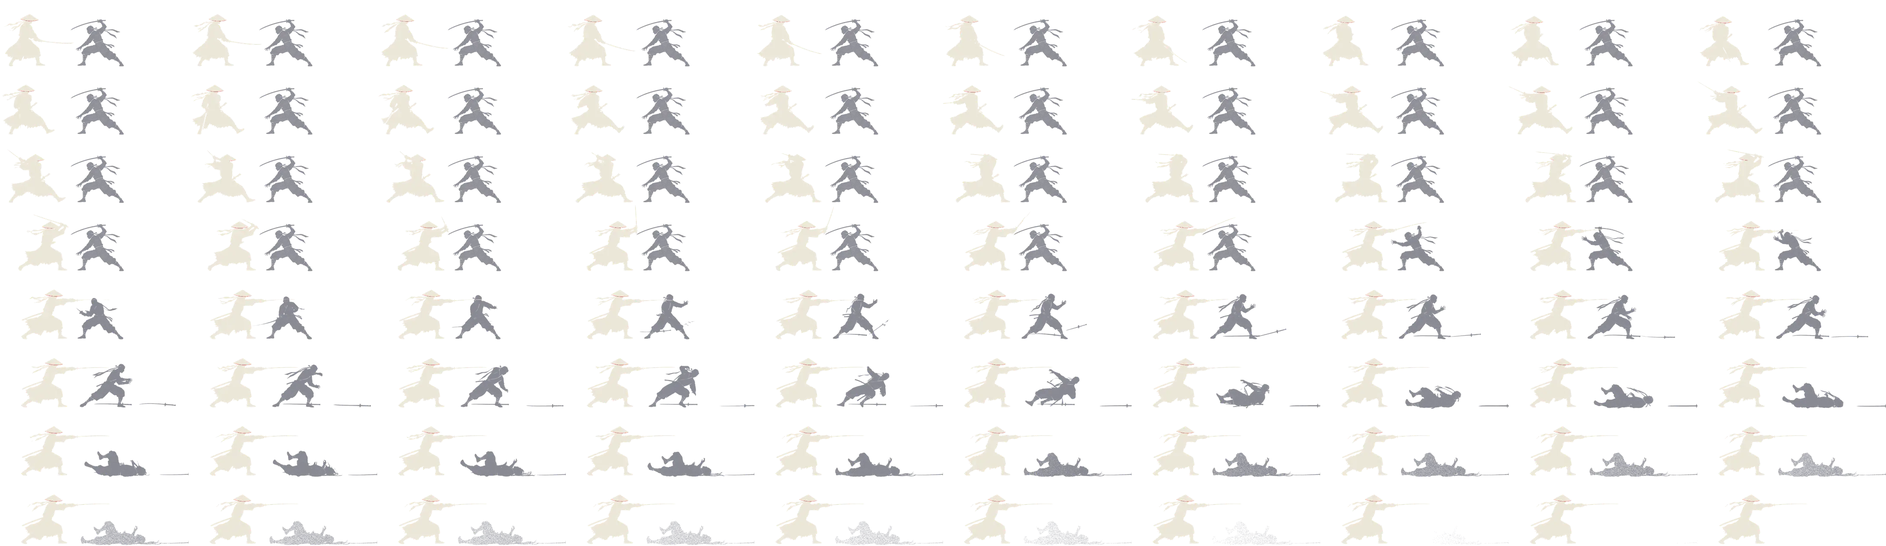
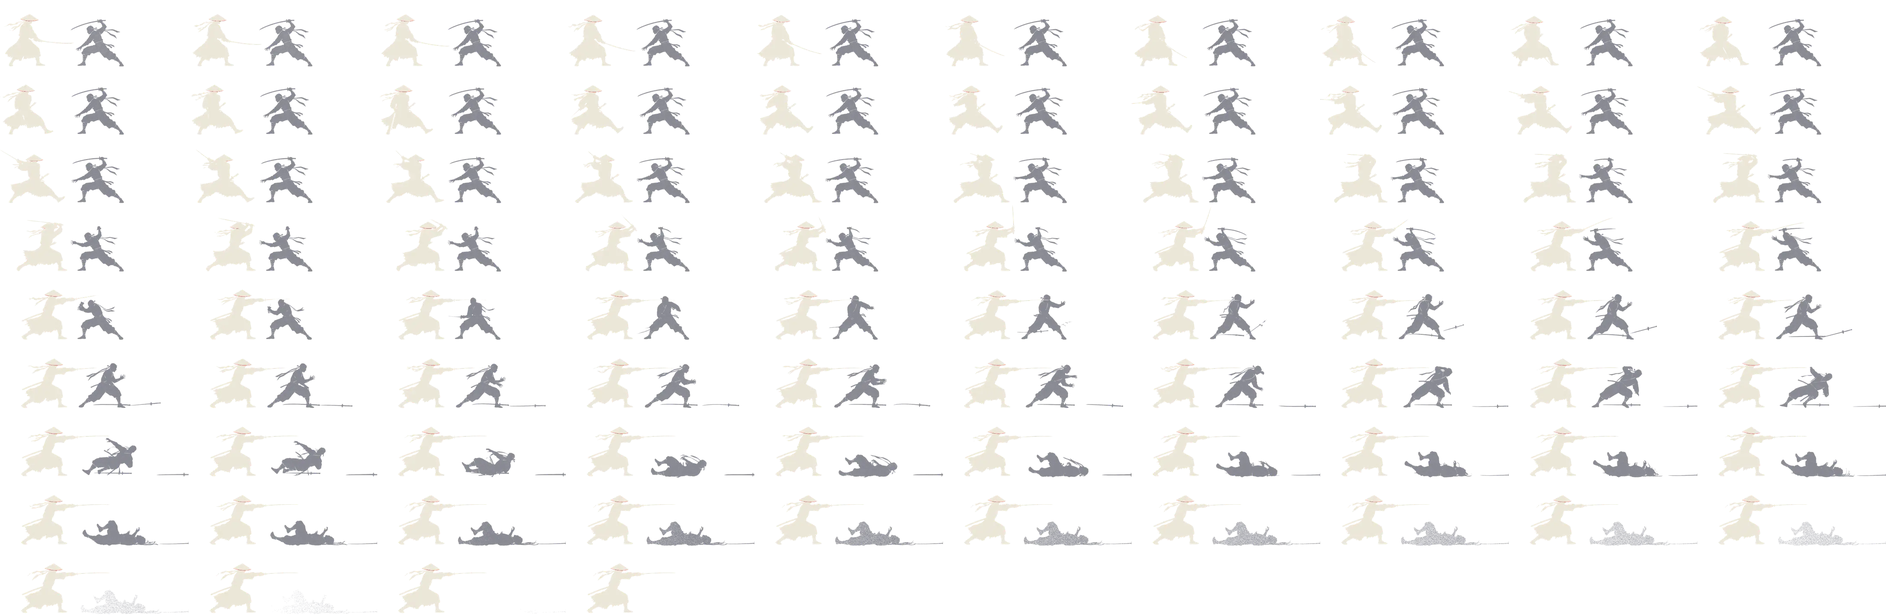
Ejecución 2,1 s con el rival vivo; comparaciones en Ver animaciones por tarjeta; Mi código más picante (numerales, sello, marca de agua)
Claude-Session: https://claude.ai/code/session_01BXqy3F16TAremLTdTkdmfS

diff --git a/src/ui/estilos.css b/src/ui/estilos.css
@@ -1,4 +1,4 @@
-/* Kanji a pincel (Yuji Syuku, licencia OFL), solo con los kanji que usa la app: ~12 KB, sin conexión. */
+/* Kanji a pincel (Yuji Syuku, licencia OFL), solo con los kanji que usa la app (más los numerales 一〜十 de Mi código): ~17 KB, sin conexión. */
 @font-face { font-family: 'Pincel'; src: url('../assets/fuentes/pincel.woff2') format('woff2'); font-weight: 400; font-style: normal; font-display: block; }
 /* Sistema de progreso: tema oscuro sobrio, un color de acento, letra grande. */
 
@@ -1441,18 +1441,20 @@ body::before { content: ''; position: fixed; inset: 0; z-index: 1000; pointer-ev
 .codigo-kanji.chico { font-size: 34px; }
 .codigo { padding: calc(var(--av-arriba, 60px) + 12px) 14px 32px; display: flex; flex-direction: column; gap: 14px; }
 .codigo-volver { align-self: flex-start; color: inherit; text-decoration: none; font-size: 14px; opacity: .85; padding: 6px 10px; border-radius: 999px; background: rgba(var(--papel-rgb), 0.08); border: 1px solid rgba(var(--papel-rgb), 0.18); -webkit-backdrop-filter: blur(8px); backdrop-filter: blur(8px); }
-.codigo-cabeza { display: flex; gap: 14px; align-items: center; padding: 14px 16px; border-radius: 16px; background: rgba(18, 17, 16, var(--vidrio, .55)); -webkit-backdrop-filter: blur(var(--vidrio-blur, 16px)); backdrop-filter: blur(var(--vidrio-blur, 16px)); border: 1px solid var(--vidrio-borde, rgba(238, 236, 231, .16)); }
+.codigo-cabeza { position: relative; overflow: hidden; display: flex; gap: 14px; align-items: center; padding: 16px 16px 20px; border-radius: 16px; background: rgba(18, 17, 16, var(--vidrio, .55)); -webkit-backdrop-filter: blur(var(--vidrio-blur, 16px)); backdrop-filter: blur(var(--vidrio-blur, 16px)); border: 1px solid var(--vidrio-borde, rgba(238, 236, 231, .16)); }
 .codigo-cabeza h1 { margin: 0 0 4px; font-size: 1.6rem; letter-spacing: .02em; }
 .codigo-grupo { display: flex; flex-direction: column; gap: 8px; }
-.codigo-grupo-titulo { display: flex; align-items: center; gap: 8px; font-size: 12px; letter-spacing: .16em; text-transform: uppercase; text-shadow: 0 1px 3px rgba(0, 0, 0, .6); }
-.codigo-grupo-kanji { font-family: 'Pincel', 'Noto Serif JP', serif; font-size: 18px; letter-spacing: 0; color: #e8a0ab; }
-.codigo-grupo-titulo::after { content: ''; flex: 1; height: 2px; border-radius: 2px; background: linear-gradient(90deg, rgba(200, 16, 46, .7), rgba(200, 16, 46, 0)); }
-.codigo-regla { position: relative; display: flex; align-items: center; gap: 12px; width: 100%; text-align: left; padding: 14px 16px 14px 12px; border-radius: 14px; color: inherit; font: inherit; cursor: pointer; background: rgba(18, 17, 16, var(--vidrio, .55)); -webkit-backdrop-filter: blur(var(--vidrio-blur, 16px)); backdrop-filter: blur(var(--vidrio-blur, 16px)); border: 1px solid var(--vidrio-borde, rgba(238, 236, 231, .16)); }
-.codigo-regla:active { transform: scale(.99); }
-.codigo-pincel { flex: none; width: 10px; align-self: stretch; height: auto; min-height: 30px; }
-.codigo-pincel path { fill: none; stroke: #c8102e; stroke-width: 4; stroke-linecap: round; opacity: .85; }
-.codigo-texto { font-family: var(--fuente); font-size: 1.05rem; font-weight: 650; line-height: 1.35; }
-.codigo-nueva { border-color: rgba(200, 16, 46, .7) !important; box-shadow: 0 0 12px rgba(200, 16, 46, .2); }
+.codigo-grupo-titulo { display: flex; align-items: center; gap: 10px; font-size: 12px; letter-spacing: .2em; text-transform: uppercase; text-shadow: 0 1px 3px rgba(0, 0, 0, .6); }
+.codigo-grupo-kanji { font-family: 'Pincel', 'Noto Serif JP', serif; font-size: 30px; line-height: 1; letter-spacing: 0; color: #e8323c; text-shadow: 0 0 1px currentColor, 0 0 10px rgba(232, 50, 60, .55), 0 1px 3px rgba(0, 0, 0, .8); }
+.codigo-grupo-nombre { color: rgba(var(--papel-rgb), .85); }
+.codigo-grupo-trazo { flex: 1; height: 8px; overflow: visible; opacity: .8; }
+.codigo-grupo-trazo path { fill: none; stroke: #c8102e; stroke-width: 2.6; stroke-linecap: round; }
+.codigo-regla { position: relative; overflow: hidden; display: flex; align-items: center; gap: 12px; width: 100%; text-align: left; padding: 16px 16px 18px 14px; border-radius: 4px 14px 4px 14px; color: inherit; font: inherit; cursor: pointer; background: rgba(18, 17, 16, var(--vidrio, .55)); -webkit-backdrop-filter: blur(var(--vidrio-blur, 16px)); backdrop-filter: blur(var(--vidrio-blur, 16px)); border: 1px solid var(--vidrio-borde, rgba(238, 236, 231, .16)); }
+.codigo-regla::before { content: ''; position: absolute; left: 0; top: 0; bottom: 0; width: 4px; background: linear-gradient(180deg, #e8323c, #8a0b1f); box-shadow: 0 0 10px rgba(232, 50, 60, .55); }
+.codigo-numero { flex: none; width: 40px; font-family: 'Pincel', 'Noto Serif JP', serif; font-size: 34px; line-height: 1; text-align: center; color: #e8323c; text-shadow: 0 0 1px currentColor, 0 0 12px rgba(232, 50, 60, .6), 0 2px 4px rgba(0, 0, 0, .8); }
+.codigo-marca { position: absolute; right: -6px; top: -14px; font-family: 'Pincel', 'Noto Serif JP', serif; font-size: 92px; line-height: 1; color: rgba(var(--papel-rgb), .09); transform: rotate(-8deg); pointer-events: none; text-shadow: none !important; }
+.codigo-texto { position: relative; font-family: var(--fuente); font-size: 1.1rem; font-weight: 700; line-height: 1.32; letter-spacing: .005em; }
+.codigo-nueva { border-color: rgba(232, 50, 60, .85) !important; background: linear-gradient(180deg, rgba(200, 16, 46, .28), rgba(200, 16, 46, .12)) !important; box-shadow: 0 0 18px rgba(200, 16, 46, .3), inset 0 1px 0 rgba(255, 255, 255, .08); font-weight: 700; }
 .progreso-tinta[data-vidrio="claro"] .codigo-cabeza, .progreso-tinta[data-vidrio="claro"] .codigo-regla { background: rgba(243, 239, 230, var(--vidrio, .6)); }
 .progreso-tinta[data-vidrio="claro"] .codigo-kanji { color: #121110; }
 
@@ -1493,9 +1495,11 @@ body::before { content: ''; position: fixed; inset: 0; z-index: 1000; pointer-ev
 .codigo-lista.entra .codigo-grupo { animation: codigo-formar 200ms ease-out both; }
 @keyframes codigo-disolver { to { opacity: 0; filter: blur(5px) contrast(1.4); transform: scale(.985) translateY(3px); } }
 @keyframes codigo-formar { from { opacity: 0; filter: blur(5px) contrast(1.4); transform: scale(.985) translateY(-3px); } }
-.codigo-regla { padding-right: 38px; }
-.codigo-otra { position: absolute; top: 8px; right: 12px; font-family: 'Pincel', 'Noto Serif JP', serif; font-size: 17px; line-height: 1; color: rgba(var(--papel-rgb), .5); }
-.progreso-tinta[data-vidrio="claro"] .codigo-otra { color: rgba(18, 17, 16, .45); }
+.codigo-regla { padding-right: 16px; }
+.codigo-otra { position: absolute; bottom: 5px; right: 12px; font-family: 'Pincel', 'Noto Serif JP', serif; font-size: 11px; letter-spacing: .08em; text-transform: uppercase; line-height: 1; color: rgba(var(--papel-rgb), .55); }
+.progreso-tinta[data-vidrio="claro"] .codigo-otra { color: rgba(18, 17, 16, .5); }
+.progreso-tinta[data-vidrio="claro"] .codigo-marca { color: rgba(18, 17, 16, .08); }
+.progreso-tinta[data-vidrio="claro"] .codigo-grupo-nombre { color: rgba(18, 17, 16, .8); }
 .codigo-etiquetas { display: grid; grid-template-columns: repeat(4, 1fr); gap: 6px; }
 .codigo-etiquetas button { display: flex; flex-direction: column; align-items: center; gap: 2px; padding: 8px 4px; border-radius: 12px; border: 1px solid var(--borde); background: var(--fondo); color: inherit; font: inherit; font-size: 12px; cursor: pointer; }
 .codigo-etiquetas button.activa { border-color: #c8102e; box-shadow: inset 0 0 0 1px #c8102e; }
@@ -1794,3 +1798,14 @@ body:has(.progreso-tinta:not([data-vidrio="claro"])) .av-fondo::before { content
 .sh-capa.logro.luma .sh-sub-texto { animation-delay: calc(var(--dur) * .64); }
 .sh-capa.logro.luma .sh-escenario { animation-name: sh-sacudida-logro-v; }
 @keyframes sh-sacudida-logro-v { 0%, 9% { transform: none } 10% { transform: translate(-2px, 1px) } 11.5% { transform: translate(2px, -1px) } 13%, 54% { transform: none } 55% { transform: translate(-3px, 2px) } 56.5% { transform: translate(3px, -2px) } 58% { transform: translate(-2px, -1px) } 59.5%, 100% { transform: none } }
+
+/* Mi código, más picante: sello con la cuenta de reglas en la cabecera, trazo de pincel abajo, kanji de marca de agua en cada regla */
+.codigo-kanji { font-size: 76px; text-shadow: 0 0 1px currentColor, 3px 3px 0 rgba(200, 16, 46, 0.7), 0 0 18px rgba(200, 16, 46, .35); }
+.codigo-cabeza-texto { flex: 1; min-width: 0; }
+.codigo-cabeza-sello { flex: none; align-self: flex-start; display: grid; place-items: center; gap: 0; width: 46px; height: 50px; margin-top: -2px; border-radius: 4px 6px 4px 7px; background: #c8102e; color: #fff3ee; transform: rotate(-7deg); box-shadow: inset 0 0 0 2px rgba(255, 240, 235, .35), 0 4px 16px rgba(200, 16, 46, .45); text-shadow: none !important; }
+.codigo-cabeza-sello span { font-family: 'Pincel', 'Noto Serif JP', serif; font-size: 24px; line-height: 1; }
+.codigo-cabeza-sello b { font-size: 12px; line-height: 1; margin-top: -2px; }
+.codigo-cabeza-trazo { position: absolute; left: 6%; right: 6%; bottom: 6px; width: 88%; height: 8px; overflow: visible; opacity: .9; }
+.codigo-cabeza-trazo path { fill: none; stroke: #c8102e; stroke-width: 3; stroke-linecap: round; }
+.codigo-regla:active { transform: scale(.985); }
+.codigo-regla:active .codigo-numero { text-shadow: 0 0 1px currentColor, 0 0 18px rgba(232, 50, 60, .95); }

diff --git a/src/ui/paginas/VerAnimaciones.tsx b/src/ui/paginas/VerAnimaciones.tsx
@@ -27,9 +27,20 @@ export function VerAnimaciones() {
   const a = datos.datos
   if (!a) return <p className="vacio">Cargando…</p>
   const ver = (x: Animacion) => animar(x, { forzar: true })
-  /** Cámara lenta (x4) para una sola animación; después vuelve a la velocidad normal. */
-  const lenta = (x: Animacion, ms: number) => { configurarAnimaciones({ lento: 4 }); ver(x); window.setTimeout(() => configurarAnimaciones({ lento: 1 }), ms * 4 + 600) }
+  /** Cámara lenta (x4) solo para esa animación; la casilla general no cambia. */
+  const lenta = (x: Animacion) => ver({ ...x, lento: 4 })
   const guardar = (c: Partial<Ajustes>, msg: string) => mutar(() => guardarAjustes(c)).then(() => avisar(msg, { tipo: 'ok' }))
+  const EJ: Animacion = { tipo: 'ejecucion', pilar: 'entrenamiento' }
+  const CAR: Animacion = { tipo: 'postura', modo: '321' }
+  const LOG: Animacion = { tipo: 'logro', clase: 'nivel', texto: 'Nivel 5', sub: `${KANJI.nivel.k} · ascender` }
+  const PARRY: Animacion = { tipo: 'parry' }
+  /** Botones «cámara lenta» y «anterior (muñeco)» de una animación, para compararla con la versión vieja. */
+  const comparar = (x: Animacion, k: string, nombre: string) => (
+    <div className="anim-grilla anim-comparar">
+      <button className="boton" onClick={() => lenta(x)}><span className="k">{k}</span><span className="chico">{nombre} · cámara lenta</span></button>
+      <button className="boton" onClick={() => ver({ ...x, vieja: true })}><span className="k">{k}</span><span className="chico">{nombre} anterior (muñeco)</span></button>
+    </div>
+  )
   return (
     <>
       <Atras />
@@ -45,39 +56,40 @@ export function VerAnimaciones() {
             </button>
           ))}
         </div>
-        <div className="anim-grilla" style={{ marginTop: 8 }}>
-          <button className="boton" onClick={() => { configurarAnimaciones({ lento: 4 }); ver({ tipo: 'ejecucion', pilar: 'entrenamiento' }); window.setTimeout(() => configurarAnimaciones({ lento: 1 }), 8600) }}><span className="k">斬</span><span className="chico">Ejecución (Luma) · cámara lenta</span></button>
-          <button className="boton" onClick={() => ver({ tipo: 'ejecucion', pilar: 'entrenamiento', vieja: true })}><span className="k">斬</span><span className="chico">Ejecución anterior (muñeco)</span></button>
-        </div>
+        {comparar(EJ, '斬', 'Ejecución')}
         <p className="ayuda">El ronin corta y el rival cae (videos de Luma). La anterior, con el muñeco, queda guardada acá.</p>
       </Tarjeta>
 
-      <Tarjeta titulo="Series y concentración">
+      <Tarjeta titulo="Caramelo de monje">
         <div className="anim-grilla">
-          <button className="boton" onClick={() => ver({ tipo: 'parry' })}><span className="k">弾</span><span className="chico">Parry (sumar serie)</span></button>
-          <button className="boton" onClick={() => ver({ tipo: 'parry', vieja: true })}><span className="k">弾</span><span className="chico">Parry anterior (muñeco)</span></button>
-          <button className="boton" onClick={() => { for (let i = 0; i < 3; i++) window.setTimeout(() => ver({ tipo: 'parry' }), i * 280) }}><span className="k">弾弾</span><span className="chico">Tres series seguidas</span></button>
-          <button className="boton" onClick={() => ver({ tipo: 'postura', modo: '321' })}><span className="k">{KANJI['321'].k}</span><span className="chico">3-2-1</span></button>
+          <button className="boton" onClick={() => ver(CAR)}><span className="k">{KANJI['321'].k}</span><span className="chico">3-2-1</span></button>
           <button className="boton" onClick={() => ver({ tipo: 'postura', modo: 'siguiente' })}><span className="k">{KANJI.siguiente.k}</span><span className="chico">Siguiente acción</span></button>
-          <button className="boton" onClick={() => lenta({ tipo: 'postura', modo: '321' }, 1400)}><span className="k">{KANJI['321'].k}</span><span className="chico">Caramelo (Luma) · cámara lenta</span></button>
-          <button className="boton" onClick={() => ver({ tipo: 'postura', modo: '321', vieja: true })}><span className="k">{KANJI['321'].k}</span><span className="chico">Caramelo anterior (muñeco)</span></button>
         </div>
+        {comparar(CAR, KANJI['321'].k, 'Caramelo')}
+        <p className="ayuda">Se arrodilla, caramelo en la mano y aura al juntar las manos (video de Luma).</p>
+      </Tarjeta>
+
+      <Tarjeta titulo="Series · parry">
+        <div className="anim-grilla">
+          <button className="boton" onClick={() => ver(PARRY)}><span className="k">弾</span><span className="chico">Parry (sumar serie)</span></button>
+          <button className="boton" onClick={() => { for (let i = 0; i < 3; i++) window.setTimeout(() => ver(PARRY), i * 280) }}><span className="k">弾弾</span><span className="chico">Tres series seguidas</span></button>
+        </div>
+        {comparar(PARRY, '弾', 'Parry')}
+      </Tarjeta>
+
+      <Tarjeta titulo="Logros grandes">
+        <div className="anim-grilla">
+          <button className="boton" onClick={() => ver(LOG)}><span className="k">{KANJI.nivel.k}</span><span className="chico">Subir de nivel</span></button>
+          <button className="boton" onClick={() => ver({ tipo: 'logro', clase: 'racha', texto: '7 días seguidos', sub: `${KANJI.racha.k} · racha` })}><span className="k">{KANJI.racha.k}</span><span className="chico">Racha de 7 días</span></button>
+          <button className="boton" onClick={() => ver({ tipo: 'logro', clase: 'fase', texto: 'Fase 2', sub: `${KANJI.fase.k} · nueva etapa` })}><span className="k">{KANJI.fase.k}</span><span className="chico">Cambio de fase</span></button>
+        </div>
+        {comparar(LOG, KANJI.nivel.k, 'Logro')}
+        <p className="ayuda">El ronin corta, el kasa vuela y alza la katana (video de Luma). El anterior, con el muñeco, queda guardado acá.</p>
       </Tarjeta>
 
       <Tarjeta titulo="El shinobi, en reposo">
         <div className="sh-reposo-marco"><MuniecoVivo /></div>
         <p className="ayuda">Nunca queda quieto: respira, el kasa se mece y la bufanda y el abrigo van con el viento.</p>
-      </Tarjeta>
-
-      <Tarjeta titulo="Logros grandes">
-        <div className="anim-grilla">
-          <button className="boton" onClick={() => ver({ tipo: 'logro', clase: 'nivel', texto: 'Nivel 5', sub: `${KANJI.nivel.k} · ascender` })}><span className="k">{KANJI.nivel.k}</span><span className="chico">Subir de nivel</span></button>
-          <button className="boton" onClick={() => ver({ tipo: 'logro', clase: 'racha', texto: '7 días seguidos', sub: `${KANJI.racha.k} · racha` })}><span className="k">{KANJI.racha.k}</span><span className="chico">Racha de 7 días</span></button>
-          <button className="boton" onClick={() => ver({ tipo: 'logro', clase: 'fase', texto: 'Fase 2', sub: `${KANJI.fase.k} · nueva etapa` })}><span className="k">{KANJI.fase.k}</span><span className="chico">Cambio de fase</span></button>
-          <button className="boton" onClick={() => lenta({ tipo: 'logro', clase: 'nivel', texto: 'Nivel 5', sub: `${KANJI.nivel.k} · ascender` }, 2600)}><span className="k">{KANJI.nivel.k}</span><span className="chico">Logro (Luma) · cámara lenta</span></button>
-          <button className="boton" onClick={() => ver({ tipo: 'logro', clase: 'nivel', texto: 'Nivel 5', sub: `${KANJI.nivel.k} · ascender`, vieja: true })}><span className="k">{KANJI.nivel.k}</span><span className="chico">Logro anterior (muñeco)</span></button>
-        </div>
-        <p className="ayuda">El ronin corta, el kasa vuela y alza la katana (video de Luma). El anterior, con el muñeco, queda guardado acá.</p>
       </Tarjeta>
 
       <Tarjeta titulo="Cuándo se muestran">

diff --git a/src/ui/paginas/MiCodigo.tsx b/src/ui/paginas/MiCodigo.tsx
@@ -23,6 +23,15 @@ function vistaGuardada(): VistaCodigo {
   }
 }
 
+const NUMERALES = ['一', '二', '三', '四', '五', '六', '七', '八', '九', '十']
+/** Número de la regla con numerales a pincel: 一, 二 … 十, 十一 … 二十. Más de 20 vuelve a los números comunes. */
+export function numeral(n: number): string {
+  if (n <= 10) return NUMERALES[n - 1]
+  if (n < 20) return `十${NUMERALES[n - 11]}`
+  if (n === 20) return '二十'
+  return String(n)
+}
+
 const areaDe = (r: ReglaCodigo) => GRUPOS_CODIGO.find((g) => g.id === r.grupo)!
 const momentoInfo = (r: ReglaCodigo) => MOMENTOS_CODIGO.find((m) => m.id === momentoDe(r))!
 
@@ -56,10 +65,12 @@ export function MiCodigo() {
       <Link to="/progreso" className="codigo-volver" onClick={() => { try { sessionStorage.removeItem('progreso-seccion') } catch { /* sin almacenamiento */ } }}>‹ Progreso</Link>
       <header className="codigo-cabeza">
         <span className="codigo-kanji" aria-hidden>掟</span>
-        <div>
+        <div className="codigo-cabeza-texto">
           <h1>Mi código</h1>
           <p className="av-nota">Okite: el código que un shinobi no rompe. No son tareas del día: es tu forma de vivir.</p>
         </div>
+        {reglas.length > 0 && <span className="codigo-cabeza-sello" aria-label={`${reglas.length} ${reglas.length === 1 ? 'regla jurada' : 'reglas juradas'}`}><span aria-hidden>誓</span><b>{reglas.length}</b></span>}
+        <svg className="codigo-cabeza-trazo" viewBox="0 0 300 10" preserveAspectRatio="none" aria-hidden><path d="M3,6 C50,2 110,9 170,5 C220,2 265,7 297,4" /></svg>
       </header>
 
       <div className="codigo-vistas" role="tablist" aria-label="Ordenar el código">
@@ -77,16 +88,15 @@ export function MiCodigo() {
           if (!lista.length) return null
           return (
             <section key={g.id} className="codigo-grupo" aria-label={g.nombre}>
-              <div className="codigo-grupo-titulo"><span className="codigo-grupo-kanji" aria-hidden>{g.kanji}</span>{g.nombre}</div>
+              <div className="codigo-grupo-titulo"><span className="codigo-grupo-kanji" aria-hidden>{g.kanji}</span><span className="codigo-grupo-nombre">{g.nombre}</span><svg className="codigo-grupo-trazo" viewBox="0 0 200 8" preserveAspectRatio="none" aria-hidden><path d="M2,5 C40,2 90,7 140,4 C170,2 190,5 198,4" /></svg></div>
               {lista.map((r, i) => {
                 const otra = vista === 'area' ? momentoInfo(r) : areaDe(r)
                 return (
-                  <button key={r.id} type="button" className="codigo-regla" onClick={() => setEditar(r)} aria-label={`${r.texto} (${otra.nombre}). Tocá para editar`}>
-                    <svg className="codigo-pincel" viewBox="0 0 12 100" preserveAspectRatio="none" aria-hidden>
-                      <path d={i % 2 ? 'M6,2 C3,30 8,60 5,98' : 'M5,2 C8,28 3,64 6,98'} />
-                    </svg>
+                  <button key={r.id} type="button" className="codigo-regla" onClick={() => setEditar(r)} aria-label={`Regla ${i + 1}: ${r.texto} (${otra.nombre}). Tocá para editar`}>
+                    <span className="codigo-marca" aria-hidden>{otra.kanji}</span>
+                    <span className="codigo-numero" aria-hidden>{numeral(i + 1)}</span>
                     <span className="codigo-texto">{r.texto}</span>
-                    <span className="codigo-otra" aria-hidden title={otra.nombre}>{otra.kanji}</span>
+                    <span className="codigo-otra" aria-hidden title={otra.nombre}>{otra.kanji} · {otra.nombre}</span>
                   </button>
                 )
               })}

diff --git a/src/ui/animaciones/motor.ts b/src/ui/animaciones/motor.ts
@@ -9,17 +9,18 @@ import { useSyncExternalStore } from 'react'
 export type PilarAnim = 'entrenamiento' | 'empresa' | 'manga' | 'acostarse'
 export type EstiloCorte = 'horizontal' | 'diagonal' | 'ascendente' | 'estocada' | 'vertical'
 
-export type Animacion =
+export type Animacion = (
   | { tipo: 'ejecucion'; pilar: string; estilo?: EstiloCorte; /** La versión anterior (muñeco SVG), guardada para volver. */ vieja?: boolean }
   | { tipo: 'parry'; nombre?: string; /** La versión anterior (muñeco SVG), guardada para volver. */ vieja?: boolean }
   | { tipo: 'postura'; modo: '321' | 'siguiente'; /** La versión anterior (muñeco SVG), guardada para volver. */ vieja?: boolean }
   | { tipo: 'logro'; clase: 'nivel' | 'racha' | 'fase' | 'record'; texto: string; sub?: string; /** La versión anterior (muñeco SVG), guardada para volver. */ vieja?: boolean }
+) & { /** Cámara lenta solo para esta animación (x4 en Ver animaciones); si no, vale la casilla general. */ lento?: number }
 
 export type ModoAnimaciones = 'todas' | 'logros' | 'ninguna'
 
 /** Duración máxima de cada animación (ms), según lo pedido. */
 export const DURACION: Record<Animacion['tipo'], number> = {
-  ejecucion: 2000, // ejecución hecha con los dos videos de Luma (ronin corta, rival cae): 80 cuadros a 40 fps
+  ejecucion: 2100, // ejecución hecha con los dos videos de Luma (ronin corta, rival cae): 84 cuadros a 40 fps
   parry: 1900, // parry hecho con el video de Luma (88 cuadros seguidos a ~46 fps: casi el doble de rápido que el video)
   postura: 1400, // caramelo hecho con el video de Luma (56 cuadros a 40 fps)
   logro: 2600, // logro hecho con el video de Luma: 2 s de movimiento + 0,6 s de pose de victoria con el sello
@@ -263,13 +264,18 @@ function tambor(ac: AudioContext, t: number) {
   o.stop(t + 0.5)
 }
 
+/** Cámara lenta que corresponde a una animación: la suya o la general. */
+export function lentoDe(a: Animacion): number {
+  return a.lento ?? config.lento
+}
+
 export function sonar(a: Animacion): void {
   const ac = audio()
   if (!ac) return
   const t = ac.currentTime + 0.01
-  const l = config.lento
+  const l = lentoDe(a)
   try {
-    if (a.tipo === 'ejecucion') corte(ac, t + 0.42 * l)
+    if (a.tipo === 'ejecucion') corte(ac, t + (a.vieja ? 0.42 : 0.95) * l)
     else if (a.tipo === 'parry') choque(ac, t + (a.vieja ? 0.12 : 0.67) * l)
     else if (a.tipo === 'postura') aura(ac, t + (a.vieja ? 0.5 : 0.72) * l, a.modo === 'siguiente')
     else {

diff --git a/src/ui/animaciones/CapaAnimacion.tsx b/src/ui/animaciones/CapaAnimacion.tsx
@@ -2,7 +2,7 @@ import { Suspense, lazy, useEffect } from 'react'
 import { obtenerAjustes } from '../../services/base'
 import { useDatos } from '../estado'
 import { cargarPoses } from './munieco'
-import { configurarAnimaciones, duracionDe, saltar, terminar, useAnimacionActual, useConfigAnimaciones } from './motor'
+import { configurarAnimaciones, duracionDe, lentoDe, saltar, terminar, useAnimacionActual, useConfigAnimaciones } from './motor'
 
 // La escena (SVG y poses) se carga recién la primera vez que hace falta: no suma al arranque.
 const Escena = lazy(() => import('./Escena').then((m) => ({ default: m.Escena })))
@@ -24,13 +24,13 @@ export function CapaAnimacion() {
   }, [])
   useEffect(() => {
     if (!a) return
-    const id = window.setTimeout(() => terminar(a.id), duracionDe(a) * config.lento + 250)
+    const id = window.setTimeout(() => terminar(a.id), duracionDe(a) * lentoDe(a) + 250)
     return () => window.clearTimeout(id)
   }, [a, config.lento])
   if (!a) return null
   return (
     <Suspense fallback={null}>
-      <Escena key={a.id} a={a} nombre={config.nombre} lento={config.lento} tema={config.tema} tinta={config.tinta} onSaltar={saltar} />
+      <Escena key={a.id} a={a} nombre={config.nombre} lento={lentoDe(a)} tema={config.tema} tinta={config.tinta} onSaltar={saltar} />
     </Suspense>
   )
 }

diff --git a/src/ui/animaciones/Escena.tsx b/src/ui/animaciones/Escena.tsx
@@ -533,9 +533,10 @@ function ParryVideo({ dur, oscuro }: { dur: number; oscuro: boolean }) {
 /**
  * Ejecución hecha con los dos videos de Luma de Navil (scripts/ejecucion-sprites.py): el ronin da el paso, carga y
  * corta mientras el rival espera en guardia; en el cuadro en que la hoja queda extendida (46 %, el mismo instante
- * que los efectos de la app) arranca la caída del rival, que termina disolviéndose en tinta. 80 cuadros a 40 fps.
+ * que los efectos de la app) arranca la caída del rival, que termina disolviéndose en tinta. 84 cuadros a 40 fps (2,1 s):
+ * antes del impacto el rival respira y se agacha apenas en guardia; la caída dura 0,8 s.
  */
-const EJ_HOJA = { w: 436, h: 158, cols: 10, filas: 8, cuadros: 80 }
+const EJ_HOJA = { w: 436, h: 158, cols: 10, filas: 9, cuadros: 84 }
 const EJ_CAJA = { x: 0, ancho: 360 }
 const EJ_ALTO = (EJ_CAJA.ancho * EJ_HOJA.h) / EJ_HOJA.w
 const EJ_Y = SUELO_Y - (153 / EJ_HOJA.h) * EJ_ALTO

diff --git a/src/ui/munieco.test.tsx b/src/ui/munieco.test.tsx
@@ -53,7 +53,7 @@ describe('shinobi articulado', () => {
     expect(container.querySelector('.sh-ej-video image')?.getAttribute('href')).toMatch(/animaciones\/ejecucion\/ejecucion-claro\.webp$/)
     expect(container.querySelector('.sh-ej-video .sh-kanji')?.textContent).toBe('鍛')
     expect(container.querySelector('.sh-mancha')).toBeNull()
-    expect(duracionDe({ tipo: 'ejecucion', pilar: 'manga' })).toBe(2000)
+    expect(duracionDe({ tipo: 'ejecucion', pilar: 'manga' })).toBe(2100)
     expect(duracionDe({ tipo: 'ejecucion', pilar: 'manga', vieja: true })).toBe(1500)
   })
 

diff --git a/scripts/ejecucion-sprites.py b/scripts/ejecucion-sprites.py
@@ -5,21 +5,21 @@ Uso: python3 -I scripts/ejecucion-sprites.py <cuadros_ronin> <cuadros_rival> <di
 Los cuadros son PNG a 24 fps (0001.png = primer cuadro) de:
   - ejecucion-2a-borrador-540p.mp4 (ronin, 960x540): se usa del cuadro 29 (1,2 s) al 120 (5 s).
     En el 76 la hoja queda extendida: es el impacto.
-  - ejecucion-2b-rival-cae.mp4 (rival gris, 1280x720): guardia congelada (cuadro 1) hasta el impacto;
-    desde ahí, del 13 (freno) al 72 (3 s, ya en el piso con la espada al costado).
+  - ejecucion-2b-rival-cae.mp4 (rival gris, 1280x720): antes del impacto va muy despacio del cuadro 1 al 13
+    (se agacha apenas en guardia, más una respiración leve); desde el impacto, del 16 al 72 (3 s, ya en el piso).
 La marca de Luma (gris claro) se borra con un umbral de luminancia: todo lo más claro que 120 es papel.
-La escena dura 2 s a 40 cuadros por segundo; al final el rival se disuelve en tinta (0,4 s).
+La escena dura 2,1 s a 40 cuadros por segundo: carga 0,975 s, caída 0,825 s, disolución del rival 0,3 s.
 """
 import sys, json
 import numpy as np
 from PIL import Image
 
 FPS = 40
-TOTAL = 80                     # 2,0 s
-IMPACTO = 37                   # 0,925 s (46 %: el mismo instante que los efectos de la app)
-FIN_CAIDA = 64                 # 1,6 s: después, disolución del rival
+TOTAL = 84                     # 2,1 s
+IMPACTO = 39                   # 0,975 s (46 %: el mismo instante que los efectos de la app)
+FIN_CAIDA = 72                 # 1,8 s: después, disolución del rival
 RONIN = (29, 76, 120)          # inicio, impacto, fin (cuadros del video)
-RIVAL = (1, 13, 72)            # guardia congelada, freno, en el piso
+RIVAL = (1, 16, 72)            # guardia, freno (impacto), en el piso
 PISO_RONIN, PISO_RIVAL = 456, 564
 ALTO_RONIN, ALTO_RIVAL = 321, 400   # alto de pie (sin la espada levantada)
 ESCALA_RIVAL = 0.92 * ALTO_RONIN / ALTO_RIVAL
@@ -67,12 +67,19 @@ def tira(tema):
     celdas = []
     for f in range(TOTAL):
         if f < IMPACTO:
-            na, nb = cuadro_en(f / IMPACTO, RONIN[0], RONIN[1]), RIVAL[0]
+            na, nb = cuadro_en(f / IMPACTO, RONIN[0], RONIN[1]), cuadro_en(f / IMPACTO, RIVAL[0], RIVAL[1])
         else:
             t = (f - IMPACTO) / (FIN_CAIDA - IMPACTO)
             na, nb = cuadro_en(t, RONIN[1], RONIN[2]), cuadro_en(t, RIVAL[1], RIVAL[2])
         lienzo = Image.new('RGBA', (W, H), (0, 0, 0, 0))
         rv = rival(nb)
+        if f < IMPACTO:
+            # Respira: el torso sube y baja apenas (1 %), con los pies fijos en el piso.
+            resp = 1 + 0.01 * np.sin(f / FPS * 2 * np.pi / 1.3)
+            rv = rv.resize((rv.width, round(rv.height * resp)), Image.BILINEAR)
+            dy = rv.height - cache[nb].height
+        else:
+            dy = 0
         if f >= FIN_CAIDA:
             # Disolución en tinta: el rival se deshace en granos de abajo hacia arriba, con viento a la derecha.
             arr = np.asarray(rv).astype(np.float32)
@@ -82,7 +89,7 @@ def tira(tema):
             corte = ruido * 0.8 + 0.2 * (np.arange(arr.shape[1])[None, :] / arr.shape[1])
             arr[..., 3] *= (corte > p).astype(np.float32)
             rv = Image.fromarray(arr.clip(0, 255).astype(np.uint8), 'RGBA')
-        lienzo.alpha_composite(rv, (round(ox), round(oy)))
+        lienzo.alpha_composite(rv, (round(ox), round(oy) - dy))
         ra = capa(f'{dir_a}/{na:04d}.png', 25, tema, 'ronin')
         lienzo.alpha_composite(ra, (-x0, -y0))
         celdas.append(lienzo.resize((round(W * ESCALA), round(H * ESCALA)), Image.LANCZOS))
